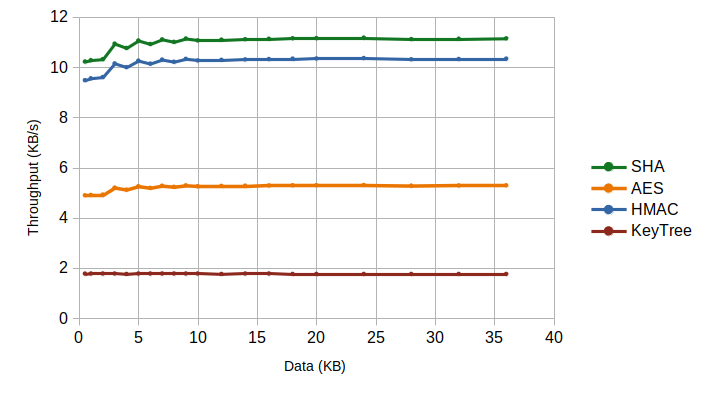
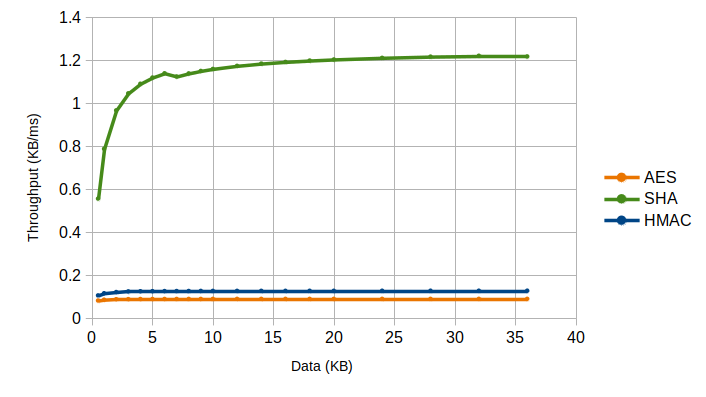
Latest tables, graphs and text in chapter 6

diff --git a/Chapters/Thesis-MSc-Chapter_6.tex b/Chapters/Thesis-MSc-Chapter_6.tex
@@ -8,45 +8,40 @@
 % The following line allows to ref this chapter
 \label{chap:evaluation}
 
-This chapter concerns the system and board evaluation. The system and board were evaluated regarding its perfromance and the fullfilled requirements outlined in the previous project report and the problem definition chapter \ref{chap:problem}.
+This chapter concerns the system and board evaluation. The system and board were evaluated regarding its performance and the fullfilled requirements outlined in the previous project report and the problem definition chapter \ref{chap:problem}.
 % -----------------------------------------------------
 % -----------------------------------------------------
 \section{Performance Tests}\label{chap:evaluation:performance}
 
 The test objectives, configuration, results and conclusions are detailed for every tested component.
 The communication channel, smartfusion2 board's security services and implemented services were tested.
-The measured performance metrics were the processing time for every test, and the tested component's throughput.
+Two performance metrics were calculated, the test processing time, and the tested component's throughput.
 
 % -----------------------------------------------------
 \subsection{Testing configuration}\label{chap:evaluation:performance:config}
 
-The tests were all performed on a Windows 10 computer, connected to the HSM device through a \ac{UART} serial port. The implemented PKCS\#11 program interface was used to run the tests.
-Two programs were running on the computer while performing the tests, the client program on powershell and the SoftConsole IDE to run the code on the smartfusion board.
-For all tests, the serial port UART connection was configured with a 115200 bit/s baud rate, 8 data bits, no parity bits and one stop bit.
-The elapsed time was measured in the client application using the function \texttt{gettimeofday()} available in the C library \texttt{sys/time.h}.
-
-In order to thoroughly study the performance and scalability of each component, the transmitted data size was varied, only for components where it is logical and can potentially have a performance impact.
-Since the board does not provide a clock and \ac{API} to measure elapsed time, the time has to be measured on the client's side.
-Time measurement starts in the client interface right before sending a message to the device which triggers the operation, and stops when the client receives a message from the device, after the operation is finished.
+The tests were all performed on a Windows 10 computer, connected to the smartfusion2 device through a \ac{UART} serial port. The implemented PKCS\#11 program interface was used to run the tests.
+Two programs were running on the computer while performing the tests, the PKCS\#11 interface program and the SoftConsole IDE to run the code on the smartfusion board.
+For all tests, the serial port UART connection was configured with a 115200 bit/s baud rate.%, 8 data bits, no parity bits and one stop bit.
+Since the board does not provide a clock and \ac{API} to measure elapsed time, the time has to be measured in the interface software side.
+The elapsed time was measured using the function \texttt{gettimeofday()} available in the C library \texttt{sys/time.h}.
+Time measurement starts right before sending a message to the device which triggers the operation, and stops when the client receives a message from the device, after the operation is finished.
+In order to thoroughly study the performance and scalability of each component, the transmitted data size was varied, only for components where it is logical and can potentially have a performance impact. The data size was tested, when possible, up to 36 KBytes. The size is limited by the device's \ac{RAM} of 64 KB.
 Tests were performed in two different configurations.
-For the first, the measured operation is performed once in the device each transmission. This transmission is repeated multiple times for every set of values, until an acceptable variance is achieved. For most components the variance is well bellow 1\%. The more volatile test results have a variance below 4\%.
 Obvious outlier values were excluded from the experimental calculations. The adopted rule was that values which are significantly above or below the average, and are never repeated were eliminated from the sample set.
-For the second scenario, tests on components where the time to transmit messages needed to minimized to more accurately assess the corresponding component's performance, for each transmission the operation was performed 50 times. The resulting time was divided by 50 to obtain the processing time per operation.
-
-\begin{equation}
-	\label{eq:linear-eq}
-	Ttotal = Tcall + Tdata * KB of data
-\end{equation}
-
-\input{tables_and_code/cores-model.tex}
-
-\input{tables_and_code/services-model.tex}
+For the first test configuration, the measured operation is performed once in the device each transmission. This transmission is repeated multiple times for every set of values, until an acceptable variance is achieved. For most components the variance is well bellow 1\%. % The more volatile test results have a variance below 4\%.
+For most components the first configuration produced unstable results with a high variance, due to the communications overhead on every test run.
+Thus, a second test configuration was applied on components where the time to transmit messages needs to be minimized to more accurately assess its performance. For each transmission, the operation was performed 100 consecutive times in the board. The resulting time was divided by 100 to obtain the average processing time of the operation.
+With the second configuration, the tests are visibly more stable.
+A test example of the difference between both configurations results was on testing the \ac{AES} security service. The first scenario's communication overhead was on average 15\% compared to the second configuration results, with a peak 61\% overhead for small data sizes. Additionally when plotting the results, the second results scale almost perfectly linear, and the first results' are significantly more unstable.
 
 % -----------------------------------------------------
 \subsection{Communications}\label{chap:evaluation:performance:comms}
 
-In order to assess the communication channel performance, the average time to transmit data was measured. The client sent the data and the device sent the data back immediately without performing another operation. The test, in accordance with the first scenario, was repeated at least 30 times for each data length. The highest variance did not go above 0.2\%.
+In order to assess the communication channel performance, and its impact on the system, the average time to transmit data was measured. For each test, the interface sent some data of a specific size to the device, and it returned an acknowledge message on reception. The test, in accordance with the first scenario, was repeated at least 30 times for each data size. The highest variance did not go above 0.2\%.
 The average transmission times for each value are displayed in figure \ref{fig:comms:time}.
+The values range from 0.048 seconds for 0.5 KB, to 3.2 s for 36 KB.
+From the graph we can conclude the performance has linear scalability.
 
 \begin{figure}[h!]
 	\centering
@@ -55,11 +50,11 @@ The average transmission times for each value are displayed in figure \ref{fig:c
 	\label{fig:comms:time}
 \end{figure}
 
-The values range from 0.016 seconds for 50 bytes, to 2.6 seconds for 29 KBytes.
-From the graph we can conclude the performance has linear scalability which is ideal for a system.
-
 For the subsequent graphic, the throughput was calculated from the transmission tests, for every repetition.
 Figure~\ref{fig:comms:tput} plots the experimental throughput and theoretical throughput. The theoretical throughput was calculated from the baud rate \(115200/8 = 14.06 KBytes/s\).
+We observe the experimental throughput starts at around 10 KB/s for smaller data sizes and stabilizes around 11 KB/s as data size increases.
+We can conclude the practical throughput is close to the theoretical, and as expected stabilizes as the data size increases.
+
 \begin{figure}[h!]
 	\centering
 	\includegraphics[width=0.8\textwidth]{./Images/comms-tput.png}
@@ -67,50 +62,28 @@ Figure~\ref{fig:comms:tput} plots the experimental throughput and theoretical th
 	\label{fig:comms:tput}
 \end{figure}
 
-We observe the experimental throughput is 3.05 KB/s for data below 100 bytes and starts stabilizing around 12 KB/s to 11 KB/s as data size increases.
-Thus we can conclude the practical throughput is close to the theoretical, and as expected stabilizes as the sample size increases, meaning, more bytes are transmitted.
-
 % -----------------------------------------------------
 % -----------------------------------------------------
-\section{Smartfusion2 Security Services}\label{chap:evaluation:board}
+\subsection{Smartfusion2 Security Services}\label{chap:evaluation:board}
 
-\begin{figure}[h!]
-	\centering
-	\includegraphics[width=0.9\textwidth]{./Images/aes-time.png}
-	\caption{AES 128/256 service time}
-	\label{fig:performance:aes:time}
-\end{figure}
+\begin{equation}
+	\label{eq:linear-eq}
+	Ttotal = Tcall + Tdata * KBytes
+\end{equation}
 
-\begin{figure}[h!]
-	\centering
-	\includegraphics[width=0.9\textwidth]{./Images/sha-time.png}
-	\caption{SHA-256 service time}
-	\label{fig:performance:sha:time}
-\end{figure}
+\input{tables_and_code/cores-model.tex}
 
-\begin{figure}[h!]
-	\centering
-	\includegraphics[width=0.9\textwidth]{./Images/hmac-time.png}
-	\caption{HMAC-SHA256 service time}
-	\label{fig:performance:hmac:time}
-\end{figure}
-
-\begin{figure}[h!]
-	\centering
-	\includegraphics[width=0.9\textwidth]{./Images/sha-time-compare.png}
-	\caption{SHA based services time}
-	\label{fig:performance:sha:compare}
-\end{figure}
-
+% TODO
 \begin{figure}[h!]
 	\centering
 	\includegraphics[width=0.9\textwidth]{./Images/core-tput.png}
-	\caption{Security Services Throughput}
-	\label{fig:performance:cores:tput}
+	\caption{TODO}
+	\label{fig:performance:core-tput}
 \end{figure}
+
 % -----------------------------------------------------
 % -----------------------------------------------------
-\section{Implemented Services}\label{chap:evaluation:services}
+\subsection{Implemented Services}\label{chap:evaluation:services}
 
 The same library used to measure the time in the communication tests was used.
 The time was measured at the client application before sending the message which will trigger the service at the HSM, and after it has received the result.
@@ -121,47 +94,22 @@ From the resulting time, the predicted time spent on communications was subtract
 The data encryption and decryption operations were ran with different data sizes, in order to asses the data size impact on performance.
 The ECDH key generation always uses a private and public key of the same size, so no message size variation is possible.
 
-% -----------------------------------------------------
-\subsection{Secure Communications}\label{chap:evaluation:services:comms}
+\input{tables_and_code/services-model.tex}
 
-\begin{figure}[h!]
-	\centering
-	\includegraphics[width=0.9\textwidth]{./Images/encrypt-time.png}
-	\caption{Secure Communications Average Time}
-	\label{fig:performance:encrypt-time}
-\end{figure}
-
-The results in table~\ref{fig:performance:op34-time} for the encryption and decryption operations are very similar due to both using the same board services, AES encryption and HMAC, but in a different order. It is also important to note AES encryption and decryption in CTR mode is essentially the same operation due the mode's characteristics.
-Relating to the variation in data size, the values vary between approximately 0.1284 and 0.1825 seconds, which is a very insignificant difference. Thus we can conclude, the data size has a negligible impact on the operations performance.
-
-% -----------------------------------------------------
-\subsection{Import Keys}\label{chap:evaluation:services:import-key}
-
-\begin{figure}[h!]
-	\centering
-	\includegraphics[width=0.9\textwidth]{./Images/import-time.png}
-	\caption{Import Keys Average Time}
-	\label{fig:performance:import-time}
-\end{figure}
-
+% TODO
 \begin{figure}[h!]
 	\centering
 	\includegraphics[width=0.9\textwidth]{./Images/services-tput.png}
-	\caption{Implemented Services Throughput Comparison}
+	\caption{TODO}
 	\label{fig:performance:services-tput}
 \end{figure}
 
-% -----------------------------------------------------
-\subsection{Key Generation}\label{chap:evaluation:services:key-gen}
+% TODO
+The results in table~ for the encryption and decryption operations are very similar due to both using the same board services, AES encryption and HMAC, but in a different order. It is also important to note AES encryption and decryption in CTR mode is essentially the same operation due the mode's characteristics.
+Relating to the variation in data size, the values vary between approximately 0.1284 and 0.1825 seconds, which is a very insignificant difference. Thus we can conclude, the data size has a negligible impact on the operations performance.
 
-\begin{figure}[h!]
-	\centering
-	\includegraphics[width=0.45\textwidth]{./Images/new-key-time.png}
-	\caption{Key Generation Average Time}
-	\label{fig:performance:new-key-time}
-\end{figure}
-
-Regarding the key generation operation results in table~\ref{fig:performance:op8-time}, two values were obtained through different methods. Due to the operation using SRAM-PUF services to enroll new keys in the eNVM memory, with limited write cycles and key slots, this operation cannot be repeated enough times to get a relevant enough sample size.
+% TODO
+Regarding the key generation operation results in table~, two values were obtained through different methods. Due to the operation using SRAM-PUF services to enroll new keys in the eNVM memory, with limited write cycles and key slots, this operation cannot be repeated enough times to get a relevant enough sample size.
 So a trade off was achieved. The operation was performed 1000 times without the key enrollment operation, meaning only the ecdh key generation algorithm and key derivation function (SHA-256).
 Since the enrollment phase is presumed to be expensive, due to writing in eNVM memory, the test was also performed 10 times with key enrollment, to get an idea of its potential performance cost.
 
@@ -190,3 +138,7 @@ A M2S090TS smartfusion2 evaluation kit is priced at 384€ \cite{smartfusionPric
 
 % secure comms - aes and hmac services are not dpa resistant, so keys should be regularly replaced to avoid enough data which enables an attacker to break encryption. On the other hand this is only possible if the attacker has physical access to the device or potentially with some type of malware on the user's computer.
 % key generation - needs assymetric keys to generate new keys with public keys and salt traded beforehand - can be not user friendly
+
+% -----------------------------------------------------
+% -----------------------------------------------------
+\section{Summary}\label{chap:evaluation:summary}

diff --git a/tables_and_code/services-model.tex b/tables_and_code/services-model.tex
@@ -3,10 +3,25 @@
 \def\arraystretch{1.5}
 \begin{tabular}{|c|c|c|c|c|c|c|}
 \hline
-Services   & AES + HMAC    & Import Keys & ECDSA   \\ \hline
-Tcall (ms) & 80.852 & 514.148  & 0 \\ \hline
-Tdata (ms) & 13.226 & 0.1747 & 0 \\ \hline
+Services   & Encrypt + MAC	  & Decrypt + MAC  & Import Keys & ECDSA & ECDH   \\ \hline
+	Tcall (ms) & 79.491 & 79.939 & 514.148  & 629.932 & 964.535 \\ \hline
+	Tdata (ms) & 15.356 & 15.347 & 0.1747 & 0.937 & - \\ \hline
+	MAE \%	   & 11.14 & 11.167 & 0.011 & 0.182 & - \\ \hline
 \end{tabular}
-\caption{Implemented services computed performance equation model}
+\caption{Implemented services linear performance values}
+\label{tab:services-model}
+\end{table}
+
+\begin{table}[]
+\centering
+\def\arraystretch{1.5}
+\begin{tabular}{|c|c|c|c|c|c|c|}
+\hline
+Services   & Encrypt + MAC	  & Decrypt + MAC  & Import Keys & ECDSA   \\ \hline
+	Tcall (ms) & 11.477 & 11.417 & 0.002 & 0.138 \\ \hline
+	Tdata (ms) & 13.977 & 13.977 & 1.942 & 1.542 \\ \hline
+	MAE \%	   & 14.213 & 14.342 & 0.127 & 1.76 \\ \hline
+\end{tabular}
+\caption{Implemented services linear performance values}
 \label{tab:services-model}
 \end{table}

diff --git a/tables_and_code/cores-model.tex b/tables_and_code/cores-model.tex
@@ -3,9 +3,10 @@
 \def\arraystretch{1.5}
 \begin{tabular}{|c|c|c|c|c|c|c|}
 \hline
-Services   & AES    & SHA    & HMAC  & KeyTree & ECC Add & ECDH   \\ \hline
-Tcall (ms) & 0.4889 & 0.498  & 0.783 & 1.655   & 7.204   & 545.38 \\ \hline
-Tdata (ms) & 11.124 & 0.8073 & 7.815 & 0       & 0       & 0      \\ \hline
+Services   & AES     & SHA    & HMAC    & KeyTree & ECC Add. & ECC Mult.   \\ \hline
+Tcall (ms) & 0.4889  & 0.498  & 0.783   & 1.655   & 7.204   & 545.38 \\ \hline
+Tdata (ms) & 11.124  & 0.807 & 7.815   & -       & -       & -      \\ \hline
+MAE \%	   & 0.0118  & 0.834  & 0.134   & -	  & -	    & -   \\ \hline
 \end{tabular}
 \caption{Security Cores Model values.}
 \label{tab:core-model}

diff --git a/Chapters/Thesis-MSc-Acronyms.tex b/Chapters/Thesis-MSc-Acronyms.tex
@@ -42,6 +42,7 @@
 	\acro{PKCS}{Public-Key Cryptography Standards}
 	\acro{PKI}{Public-Key Infrastructure}
 	\acro{PUF}{Physical Unclonable Function}
+	\acro{RAM}{Random-Access Memory}
 	\acro{RSA}{Rivest-Shamir-Adleman}
 	\acro{SEU}{Single-Event Upset}
 	\acro{SHA}{Secure Hash Algorithms}
